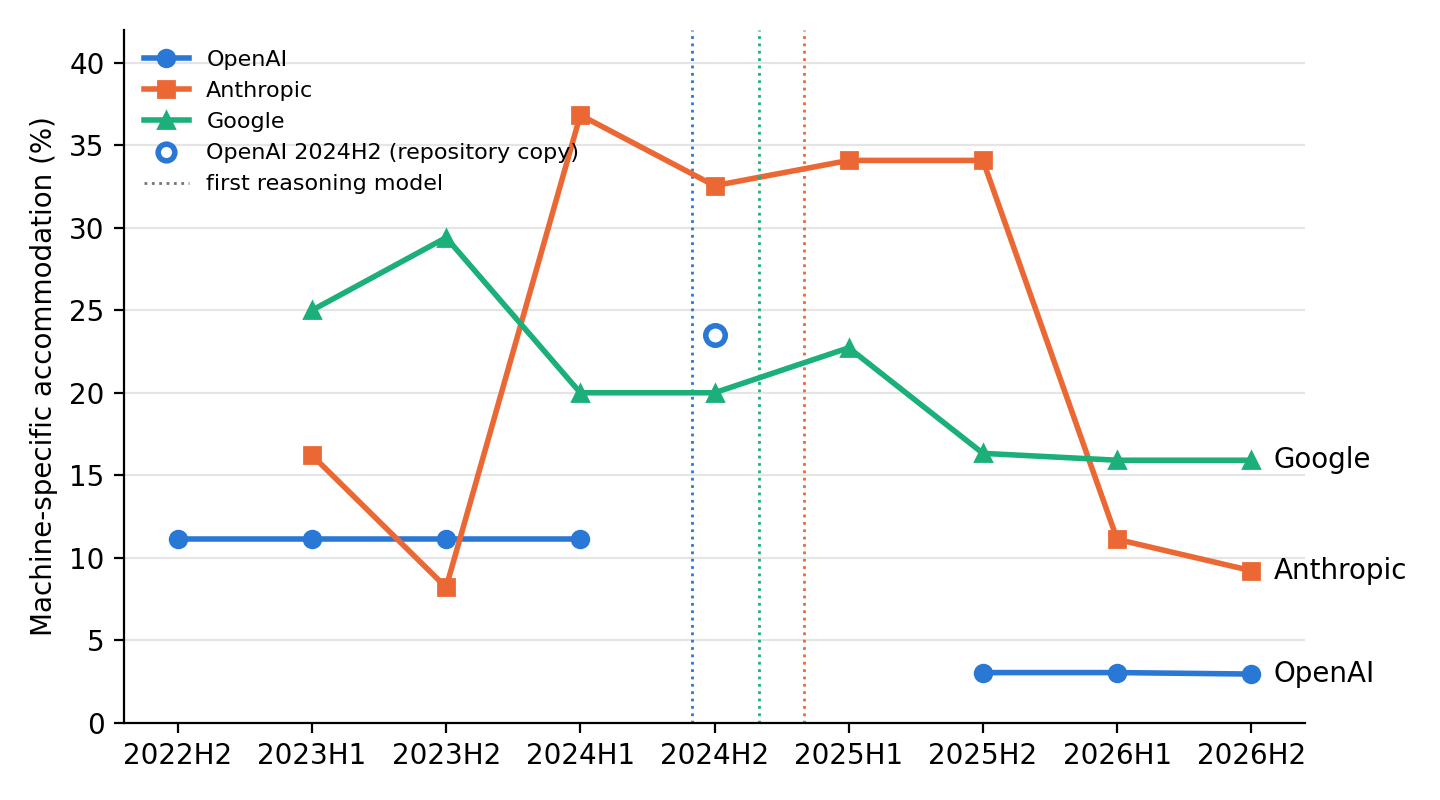
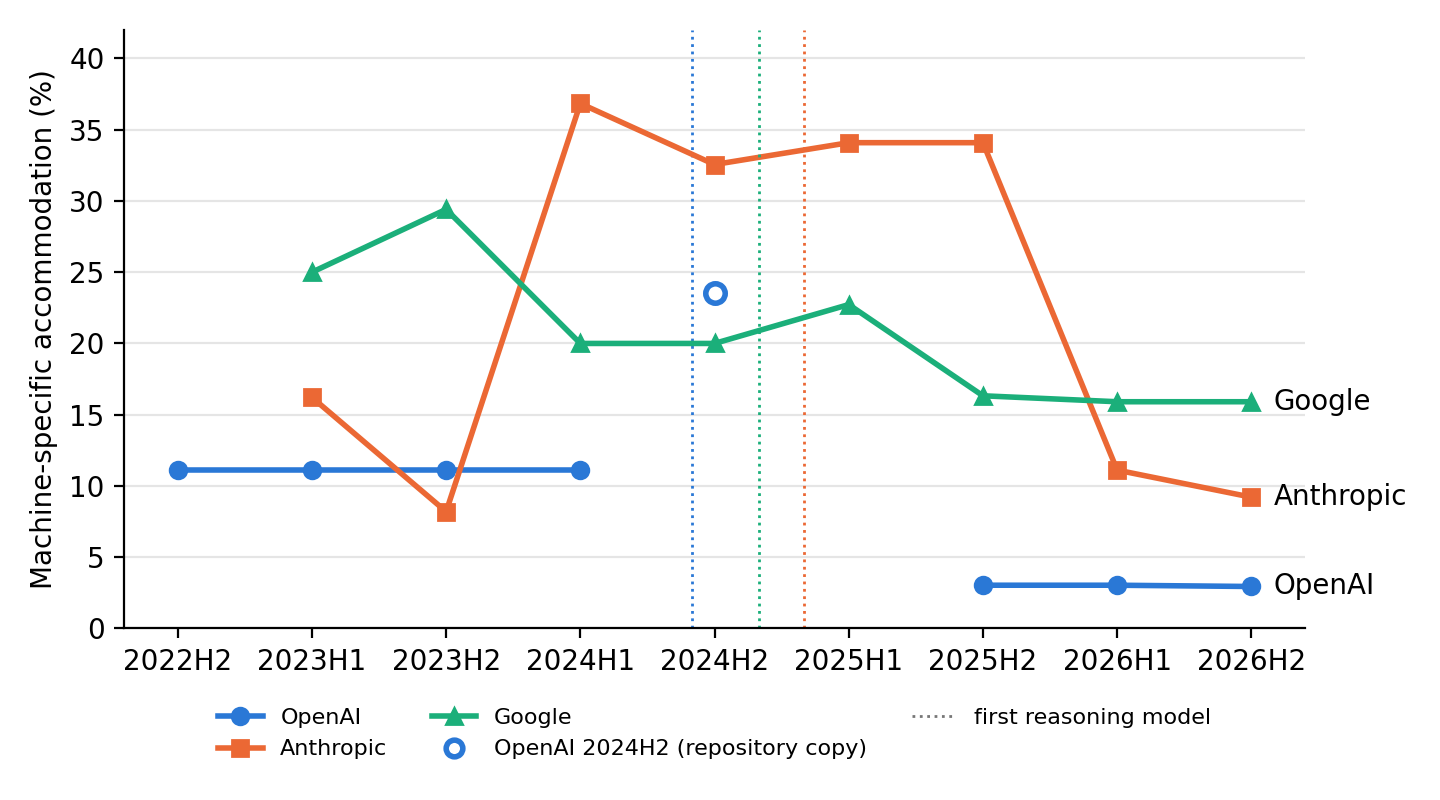
Figure 1: legend below the plot

Changed region(s): [[0.0, 0.0625, 0.9688, 0.7812], [0.0625, 0.7812, 0.9688, 0.9688], [0.6562, 0.6875, 0.9688, 0.75]]

diff --git a/code/reproduce.py b/code/reproduce.py
@@ -202,7 +202,7 @@ def shares_and_figure(t: dict) -> None:
               + [plt.Line2D([], [], ls="none", marker="o", mfc="white", mec=colors["OA"], mew=2),
                  plt.Line2D([], [], color="#777777", ls=":", lw=1)],
               [NAMES[v] for v in VENDORS] + ["OpenAI 2024H2 (repository copy)", "first reasoning model"],
-              frameon=False, fontsize=8, loc="upper left")
+              frameon=False, fontsize=8, loc="upper center", bbox_to_anchor=(0.5, -0.1), ncol=3)
     fig.tight_layout()
     for ext in ("png", "pdf"):
         fig.savefig(OUT / f"figure1.{ext}")
